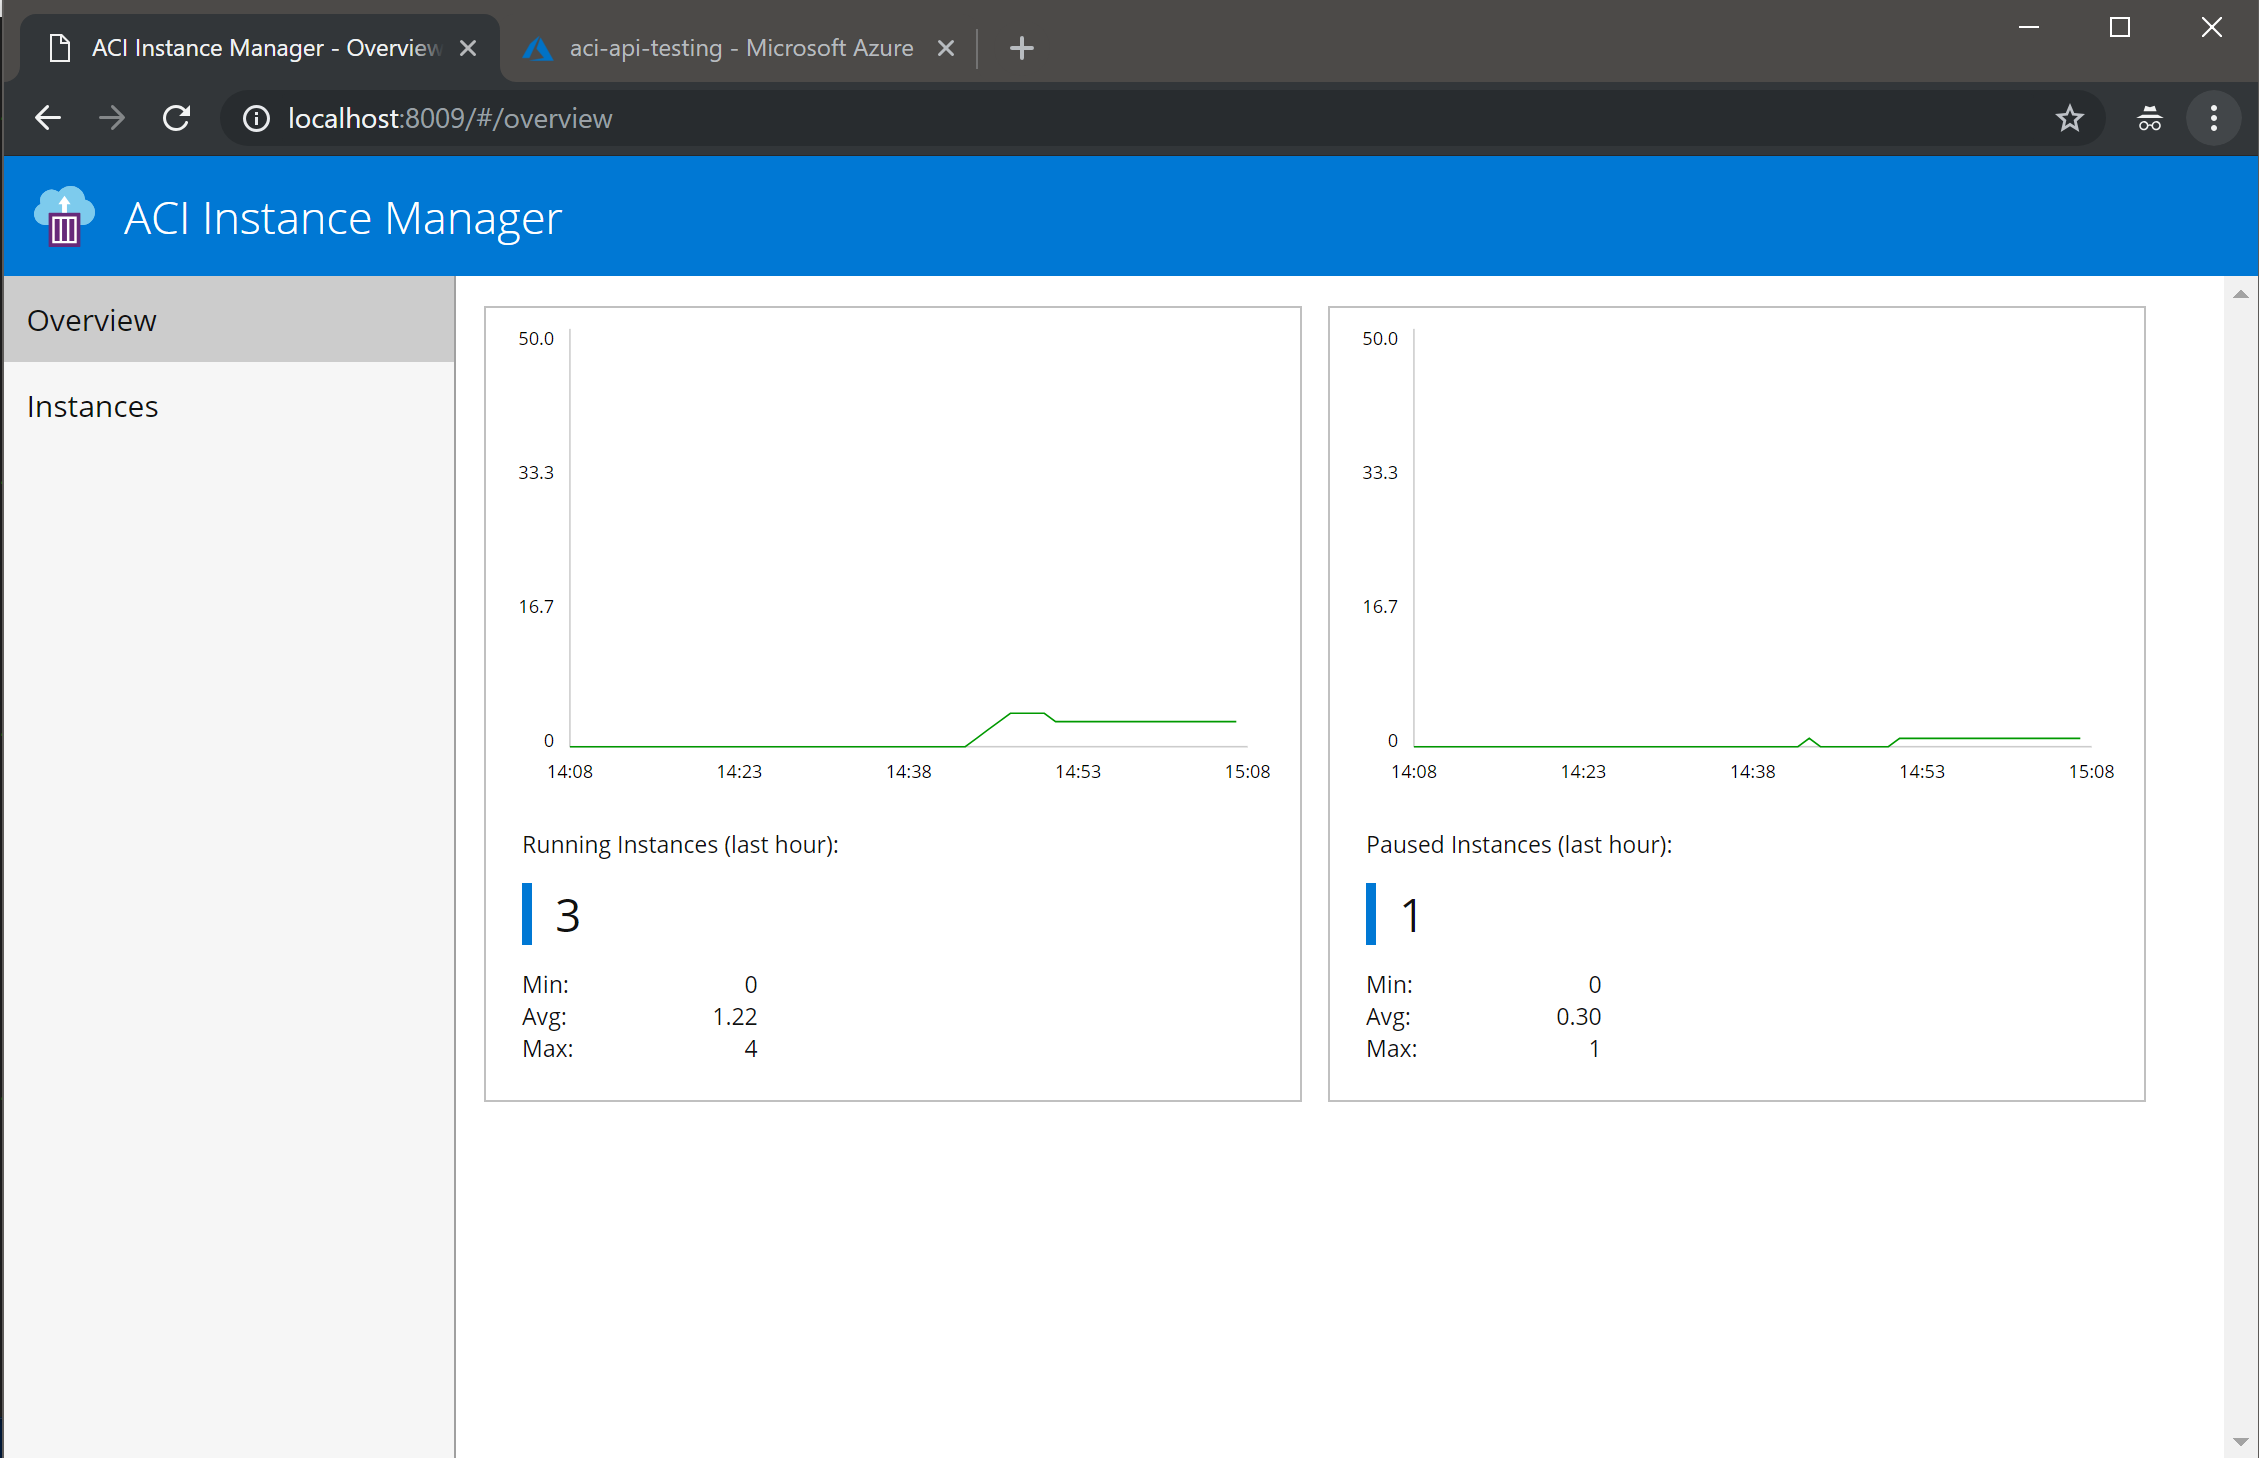
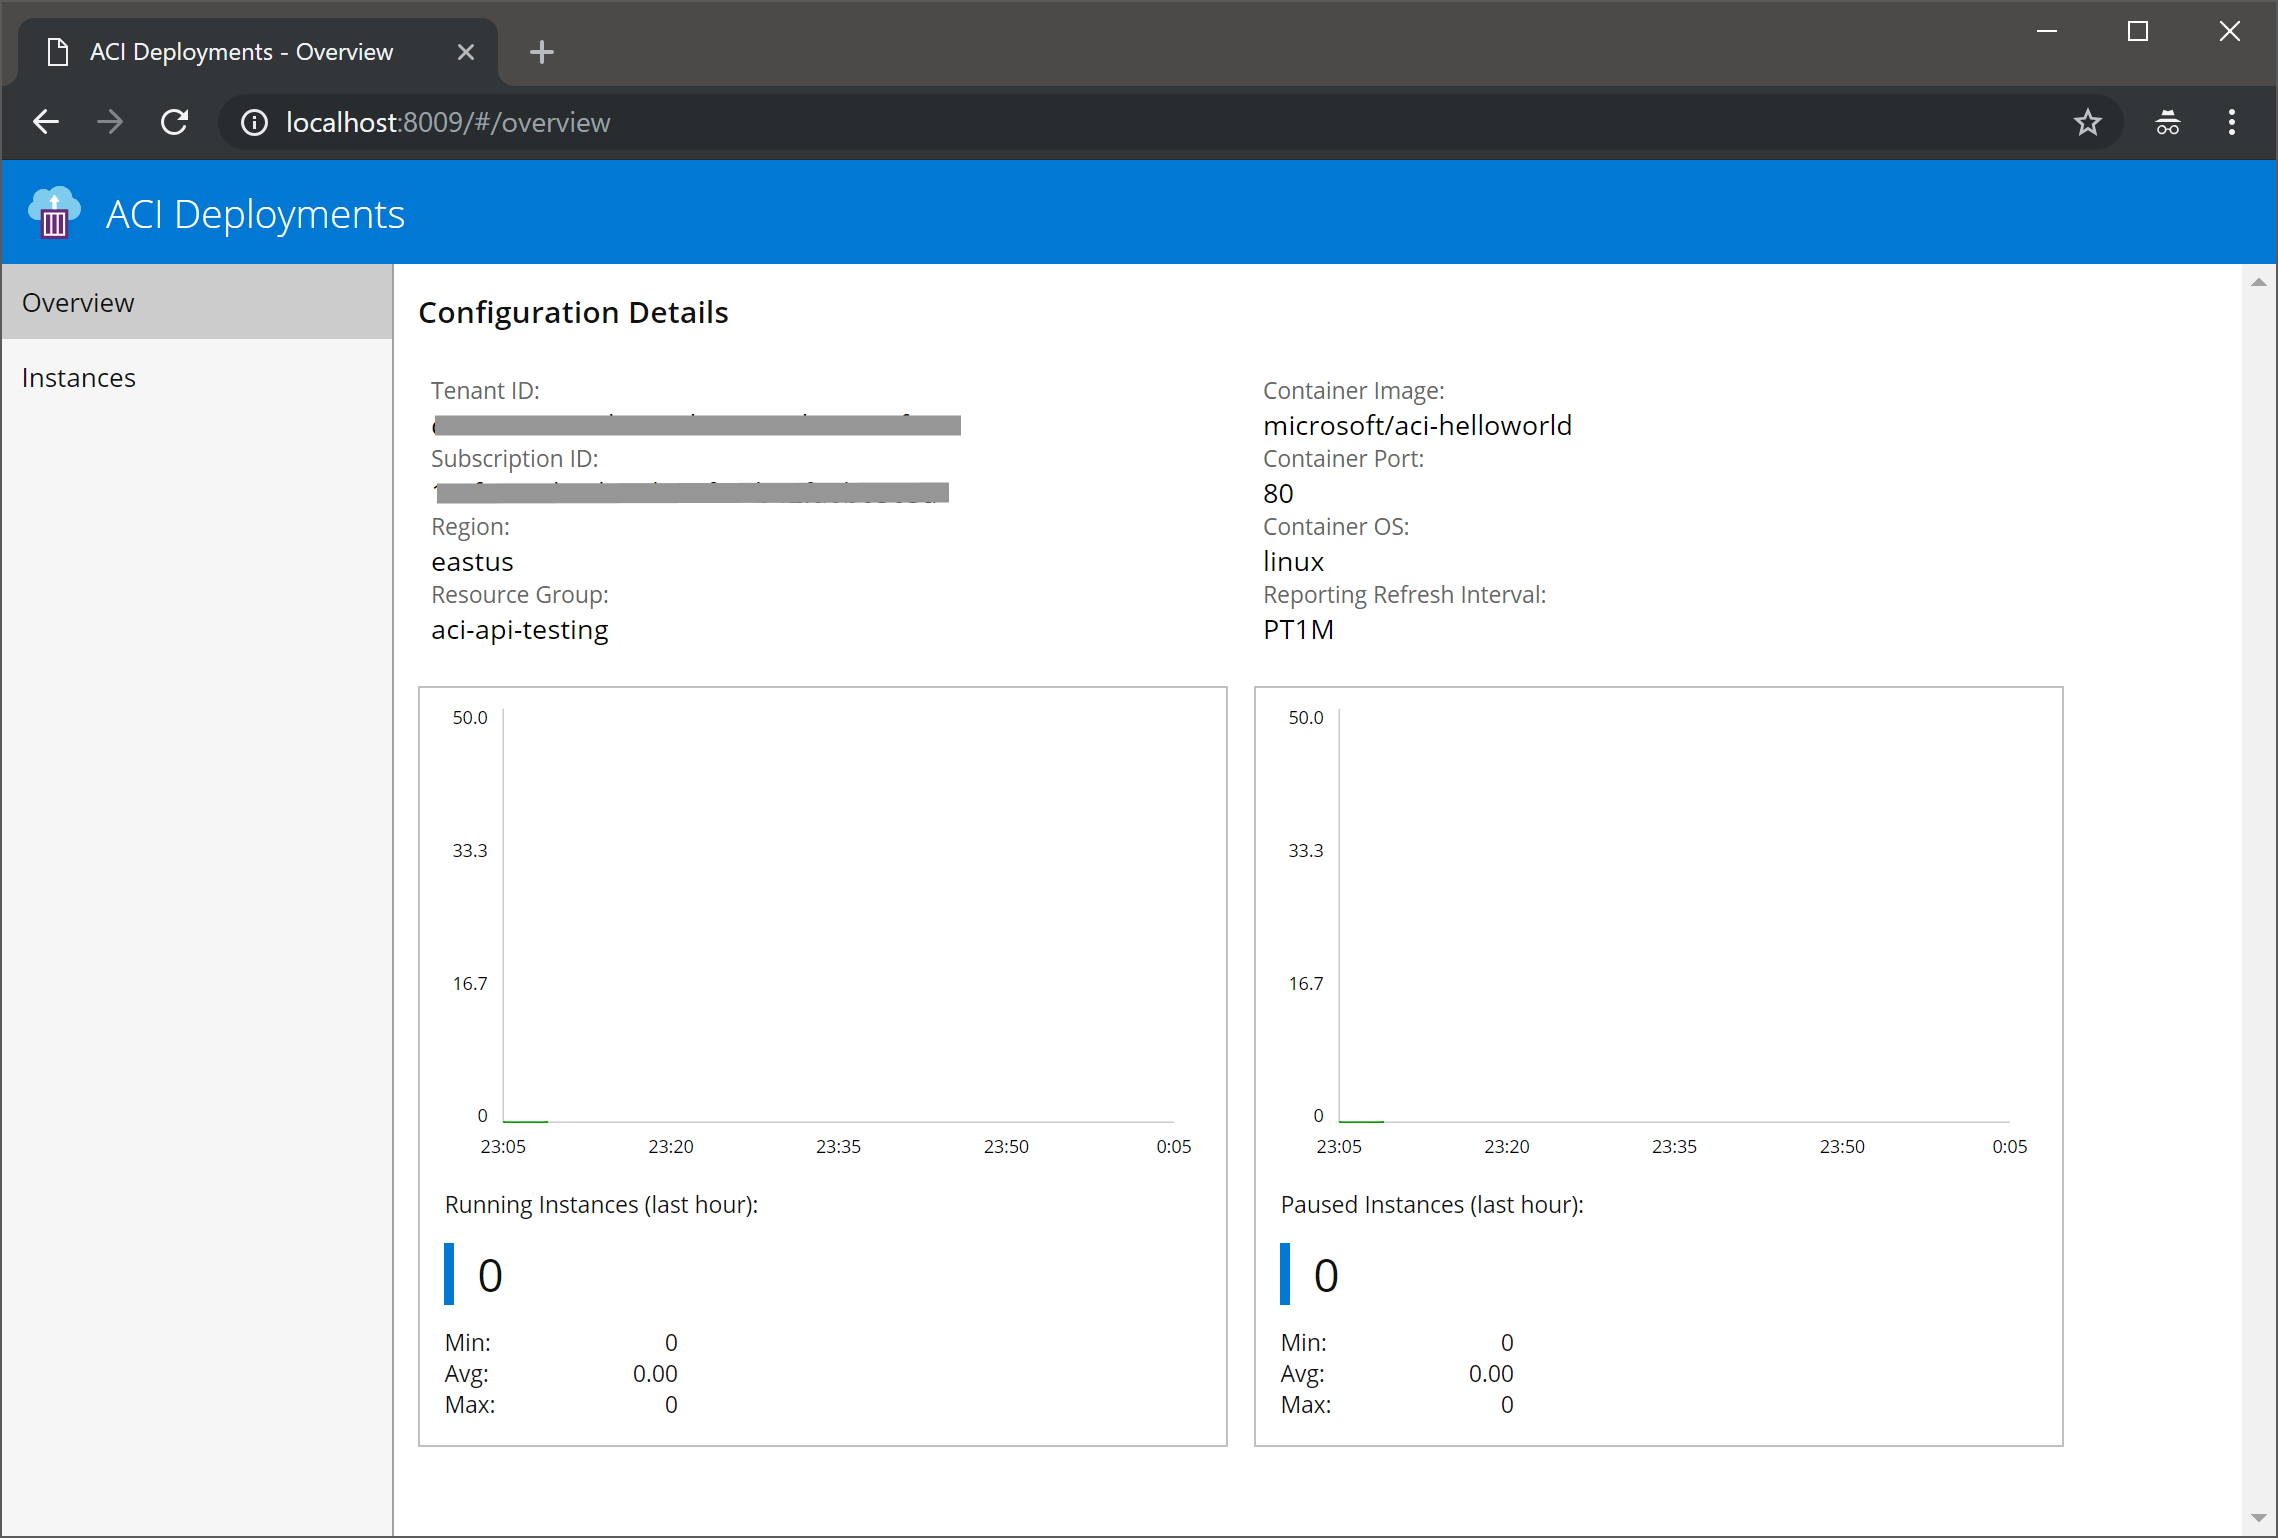
Implemented configuration display and overview UI

diff --git a/src/static/index.html b/src/static/index.html
@@ -19,23 +19,27 @@
         </div>
 
         <div class="content" id="overviewContent">
+            <h3>Configuration Details</h3>
+            
             <div class="overviewWidget">
                 <ul>
-                    <li>Tenant ID:<span>XXXXXXXX-XXXX-XXXX-XXXX-XXXXXXXXXXXX</span></li>
-                    <li>Subscription ID:<span>XXXXXXXX-XXXX-XXXX-XXXX-XXXXXXXXXXXX</span></li>
-                    <li>Region:<span>XXXX</span></li>
-                    <li>Resource Group:<span>XXXX</span></li>
+                    <li id="config_tenant_id">Tenant ID:<span>XXXXXXXX-XXXX-XXXX-XXXX-XXXXXXXXXXXX</span></li>
+                    <li id="config_subscription_id">Subscription ID:<span>XXXXXXXX-XXXX-XXXX-XXXX-XXXXXXXXXXXX</span></li>
+                    <li id="config_region">Region:<span>XXXX</span></li>
+                    <li id="config_resource_group">Resource Group:<span>XXXX</span></li>
                 </ul>
             </div>
 
             <div class="overviewWidget">
                 <ul>
-                    <li>Container Image:<span>XXXXX</span></li>
-                    <li>Container Port:<span>XXXX</span></li>
-                    <li>Container OS:<span>XXXX</span></li>
-                    <li>Reporting Refresh Interval:<span>XXXX</span></li>
+                    <li id="config_container_image">Container Image:<span>XXXXX</span></li>
+                    <li id="config_container_port">Container Port:<span>XXXX</span></li>
+                    <li id="config_container_os">Container OS:<span>XXXX</span></li>
+                    <li id="config_report_interval">Reporting Refresh Interval:<span>XXXX</span></li>
                 </ul>
             </div>
+
+            <div class="clear"></div>
             
             <div class="summaryWidget number fLeft">
                 <div id="runningInstanceChart" class="chartContainer"></div>

diff --git a/src/client/ui-binding.ts b/src/client/ui-binding.ts
@@ -4,12 +4,13 @@
 
 import * as $ from "jquery";
 import { IChart, LineChart } from "./charting";
-import { OverviewDetails } from "../common-types";
+import { OverviewDetails, ConfigurationDetails } from "../common-types";
 
 export interface IUiBinding
 {
     SetupInitialState(): void;
     SetNavigationChangedCallback(onNavigation: (path: string) => void): void;
+    ShowConfigurationData(data: ConfigurationDetails): void;
     ShowSummaryViewContent(data: OverviewDetails): void;
     ShowInstanceDetailContent(): void;
 }
@@ -42,6 +43,18 @@ export class UiBinding implements IUiBinding
 
         // Fire on initial run incase there is no hash-change event (i.e., bookmark)
         updateUiForPath();
+    }
+
+    public ShowConfigurationData(data: ConfigurationDetails) {
+        $("#config_tenant_id span").text(data.TenantId!);
+        $("#config_subscription_id span").text(data.SubscriptionId!);
+        $("#config_region span").text(data.Region!);
+        $("#config_resource_group span").text(data.ResourceGroup!);
+
+        $("#config_container_image span").text(data.ContainerImage!);
+        $("#config_container_port span").text(data.ContainerPort!);
+        $("#config_container_os span").text(data.ContainerOs!);
+        $("#config_report_interval span").text(data.ReportingRefreshInterval!);
     }
 
     public ShowSummaryViewContent(data: OverviewDetails){

diff --git a/src/server.ts b/src/server.ts
@@ -2,8 +2,9 @@ import * as dotenv from "dotenv";
 import * as express from "express";
 import * as bodyParser from "body-parser";
 import { ILogger, ConsoleLogger } from "./logging";
-import * as containerServices from "./container-services";
+import * as containerServices from "./container-service";
 import * as summaryServices from "./reporting-service";
+import { ConfigurationService } from "./config-service";
 
 // Init environment
 dotenv.config();
@@ -13,6 +14,7 @@ const logger: ILogger = new ConsoleLogger();
 const app: express.Application = express();
 const aci = new containerServices.ContainerServices(logger);
 const reporting = new summaryServices.SummaryServices(logger, aci);
+const config = new ConfigurationService();
 
 // Enables parsing of application/x-www-form-urlencoded MIME type
 // and JSON
@@ -52,6 +54,11 @@ app.get("/api/overviewSummary", async (req: express.Request, resp: express.Respo
     }).catch((reason) => {
         resp.status(500).json(reason);
     })
+});
+app.get("/api/configuration", async (req: express.Request, resp: express.Response) => {
+    logger.Write("Executing GET /api/configuration...");
+    setNoCache(resp);
+    resp.json(config.GetConfiguration());
 });
 app.get("/api/deployments", async (req: express.Request, resp: express.Response) => {
     logger.Write("Executing GET /api/deployments...");

diff --git a/src/client/service-api.ts b/src/client/service-api.ts
@@ -4,10 +4,11 @@
 // NOTE: The UI manipulatino needs fatored out of here..just copy/pasta'd for now.
 //
 
-import { OverviewDetails } from "../common-types";
+import { OverviewDetails, ConfigurationDetails } from "../common-types";
 
 export interface IServiceApi {
     LoadSummaryData(): Promise<OverviewDetails>;
+    LoadConfigurationData(): Promise<ConfigurationDetails>;
     LoadInstancesData(): Promise<any>;
 }
 
@@ -18,6 +19,21 @@ export class ServiceApi implements IServiceApi {
             xhr.open("GET", "/api/overviewSummary");
             xhr.onload = () => {
                 if (xhr.status === 200) {
+                    resolve(JSON.parse(xhr.responseText));
+                } else {
+                    reject(xhr.statusText);
+                }
+            };
+            xhr.send();
+        });
+    }
+
+    public LoadConfigurationData() {
+        return new Promise<ConfigurationDetails>((resolve, reject) => {
+            const xhr = new XMLHttpRequest();
+            xhr.open("GET", "/api/configuration");
+            xhr.onload = () => {
+                if (xhr.status === 200){
                     resolve(JSON.parse(xhr.responseText));
                 } else {
                     reject(xhr.statusText);

diff --git a/src/config-service.ts b/src/config-service.ts
@@ -1,0 +1,24 @@
+//
+// Exposes methods for reading configuration
+//
+
+import { ConfigurationDetails } from "./common-types";
+
+export interface IConfigService {
+    GetConfiguration(): ConfigurationDetails;
+}
+
+export class ConfigurationService implements IConfigService {
+    public GetConfiguration() {
+        const config = new ConfigurationDetails();
+        config.TenantId = process.env.TENANT_ID;
+        config.SubscriptionId = process.env.SUBSCRIPTION_ID;
+        config.Region = process.env.REGION;
+        config.ResourceGroup = process.env.RESOURCE_GROUP_NAME;
+        config.ContainerImage = process.env.CONTAINER_IMAGE;
+        config.ContainerPort = parseInt(process.env.CONTAINER_PORT!);
+        config.ContainerOs = process.env.CONTAINER_OS_TYPE;
+        config.ReportingRefreshInterval = process.env.REPORTING_REFRESH_INTERVAL;
+        return config;
+    }
+}

diff --git a/src/client/application.ts b/src/client/application.ts
@@ -34,12 +34,18 @@ class Application implements IApplication {
         console.log(`Item selected: ${path}`);
         switch (path){
             case "/overview":
+                this.loadConfiView();
                 this.loadSummaryView();
                 break;
             case "/instances":
                 this.loadInstanceView();
                 break;
         }
+    }
+
+    private async loadConfiView(){
+        const config = await this.api.LoadConfigurationData();
+        this.ui.ShowConfigurationData(config);
     }
 
     private async loadSummaryView(){

diff --git a/src/common-types.ts b/src/common-types.ts
@@ -17,3 +17,14 @@ export class SequenceSummary {
     Maximum: number = 0;
     Average: number = 0;
 }
+
+export class ConfigurationDetails {
+    TenantId: string | undefined;
+    SubscriptionId: string | undefined;
+    Region: string | undefined;
+    ResourceGroup: string | undefined;
+    ContainerImage: string | undefined;
+    ContainerPort: number | undefined;
+    ContainerOs: string | undefined;
+    ReportingRefreshInterval: string | undefined;
+}

diff --git a/src/reporting-service.ts b/src/reporting-service.ts
@@ -1,7 +1,7 @@
 //
 // Provides serivces for generating and reading overview summary status
 //
-import { IContainerServices, ContainerServices } from "./container-services";
+import { IContainerServices, ContainerServices } from "./container-service";
 import { ILogger } from "./logging";
 import * as moment from "moment";
 import { OverviewDetails, SequenceSummary } from "./common-types";

diff --git a/src/static/main.css b/src/static/main.css
@@ -15,6 +15,7 @@ input, select, textarea {
 }
 h1, h2, h3 { font-weight: normal; }
 p { margin-bottom: 1em; }
+.clear { clear: both; }
 
 .header { 
     position: fixed; 
@@ -60,6 +61,11 @@ p { margin-bottom: 1em; }
     display: none;
     overflow: hidden;
     overflow-y: scroll;
+}
+
+.content h3 {
+    font-weight: bold;
+    margin-bottom: 1em;
 }
 
 .overviewWidget {
